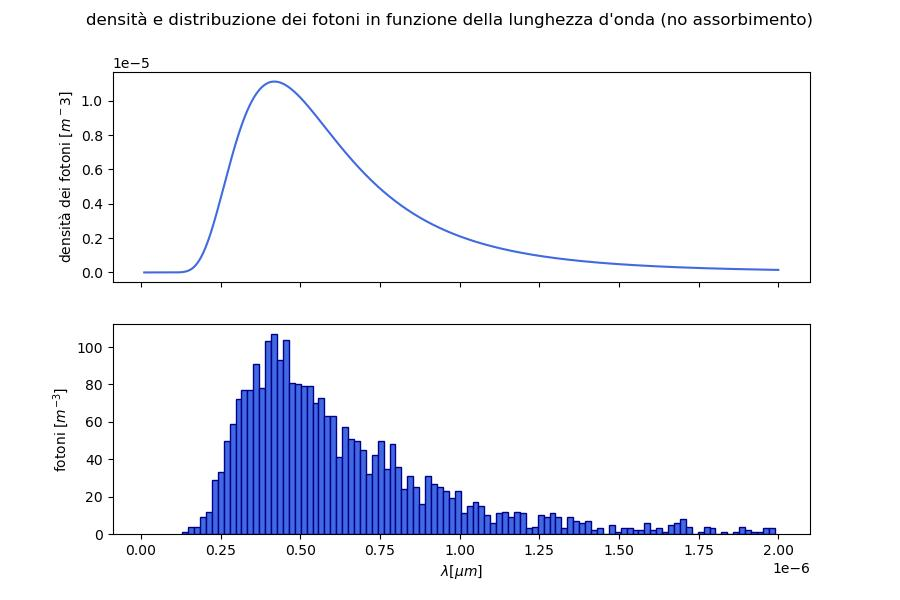
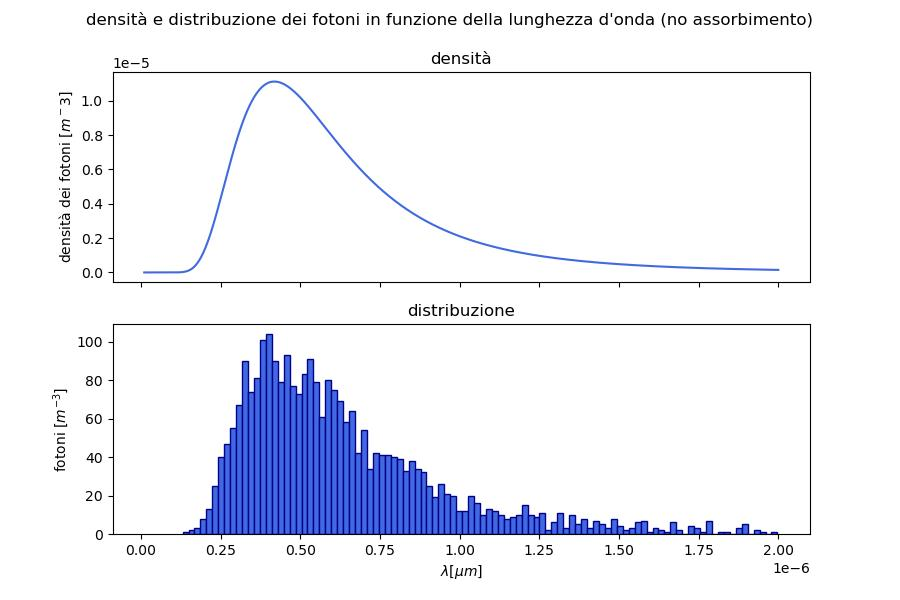
modified

diff --git a/StellaX.py b/StellaX.py
@@ -1,38 +1,55 @@
-import sys
+import sys,os
 
 import numpy as np
 import matplotlib.pyplot as plt
 import pandas as pd
 from scipy import optimize
+import warnings
 
 sys.path.append('funzioni.py')
 import funzioni as fu
 
+warnings.filterwarnings('ignore')
+
 X_st  = pd.read_csv('202302/observed_starX.csv')
-theta = 65       #°
+      #°
 R_ter = 6.378e6  #m Raggio della Terra 
-lo    = X_st['lambda (nm)']
+lo    = X_st['lambda (nm)'] 
+ld    = lo*10**(-9)
 ph    = X_st['photons']
 n_ter = 1.00029  # indice di rifrazione dell'aria
 N_ter = 2.504e25 # mol/m^3
 
+
+m_p=max(ph)
+den_abs = ph/m_p
+print(m_p)
 #stampo i nomi delle colonne del file
 print(X_st.columns)
-plt.plot(lo, ph, 'o', color='royalblue')
+print(ld)
+plt.plot(ld, den_abs, 'o', color='royalblue')
 plt.xlabel(r'$\lambda$ (nm)')
-plt.ylabel('fotoni')
+plt.ylabel('den_fotoni')
 plt.show()
 
-def fit_fun(x, N_0, T):
+def fit_fun(x, T, theta):
 	"""
-	funzione con cui devo interpolare i dati raccolti
-	all'interno del file fornito observed_starX.csv
+	funzione con la quale faremo il fit dei dati forniti dal file
+	per poter calcolare il valore della temperatura della stella X
 	"""
-	S=fu.th_airmass(R_ter, 8000, theta)
-	den = fu.den_fot(x, T)
-	return N_0*den*np.exp(-fu.beta_sc(x,n_ter,N_ter) * S)
+	S    = fu.th_airmass(R_ter, 8000, theta)
+	beta = fu.beta_sc(x, n_ter, N_ter)
+	return fu.den_fot(x,T) * np.exp(-beta * S)/max(fu.den_fot(x,T) * np.exp(-beta * S))
 
-pstart=([0,0])
-p, pcov = optimize.curve_fit(fit_fun, lo, ph, p0=pstart)
-y = fit_fun(lo, p[0], p[1])
-print(y)
+pstart=np.array([18e3,1])
+p, pcov = optimize.curve_fit(fit_fun, ld, den_abs, p0=pstart)
+print(p)
+y = fit_fun(ld, p[0], p[1])
+plt.subplots(figsize=(9,6))
+print(y, den_abs)
+plt.plot(ld, den_abs, 'o', color='royalblue', label='punti del file')
+plt.plot(ld, y, color='limegreen', label='curva del fit')
+plt.legend()
+plt.show()
+
+

diff --git a/tramonti.py b/tramonti.py
@@ -88,12 +88,14 @@ def tramonti():
 		fig.suptitle( "densità e distribuzione dei fotoni in funzione della lunghezza d'onda (no assorbimento)")
 		ax1.plot(lt,den,color='royalblue'           )
 		ax1.set(ylabel='densità dei fotoni [$m^-3$]'                             )
+		ax1.set_title('densità')
 		
 		#grafico della distribuzione dei fotoni che arrivano in caso di
 		#non assorbimento
 		ax2.hist(l_i,bins=100,color='royalblue',ec='darkblue')
 		ax2.set(xlabel=r'${\lambda}[\mu m]$')
 		ax2.set(ylabel=r'fotoni [$m^{-3}$]')	
+		ax2.set_title('distribuzione')
 		#plt.savefig('immagini/no_abs_{:}.jpeg'.format(name))
 		plt.show()			
 		
@@ -113,11 +115,13 @@ def tramonti():
 		ax3.plot(lt, abd,color='orange')
 		ax3.set(ylabel=r'densità fotoni [$m^{-3}$]')
 		fig.suptitle("densità e distribuzione dei fotoni in funzione della lunghezza d'onda (ZENITH)")
+		ax3.set_title('densità')
 		
 		#metto in un istogramma i dati raccolti
 		ax4.hist(l_i2, bins=100,color='orange',ec='darkorange')
 		ax4.set(xlabel=r'${\lambda}[\mu m]$')
 		ax4.set(ylabel=r'fotoni [$m^{-3}$]')
+		ax4.set_title('distribuzione')
 		#plt.savefig('immagini/abs_zen_{:}.jpeg'.format(name))
 		plt.show()
 		
@@ -138,6 +142,7 @@ def tramonti():
 		fig, (ax5, ax6) = plt.subplots(2,sharex=True, figsize = (9,6))
 		ax5.plot(lt, abd2,color='turquoise')
 		ax5.set(ylabel=r'densità dei fotoni [$m^{-3}$]')
+		ax5.set_title('densità')
 		fig.suptitle("densità e distribuzione dei fotoni in funzione della lunghezza d'onda (ORIZZONTE)")
 		
 		#grafico della distribuzione dei fotoni usando il metodo 
@@ -145,6 +150,7 @@ def tramonti():
 		ax6.hist(l_i3, bins =100, color='turquoise', ec='lightseagreen')
 		ax6.set(xlabel=r'${\lambda}[\mu m]$')
 		ax6.set(ylabel=r'fotoni [$m^{-3}$]')
+		ax6.set_title('distribuzione')
 		#plt.savefig('immagini/abs_hor_{:}.jpeg'.format(name))
 		plt.show()
 		
